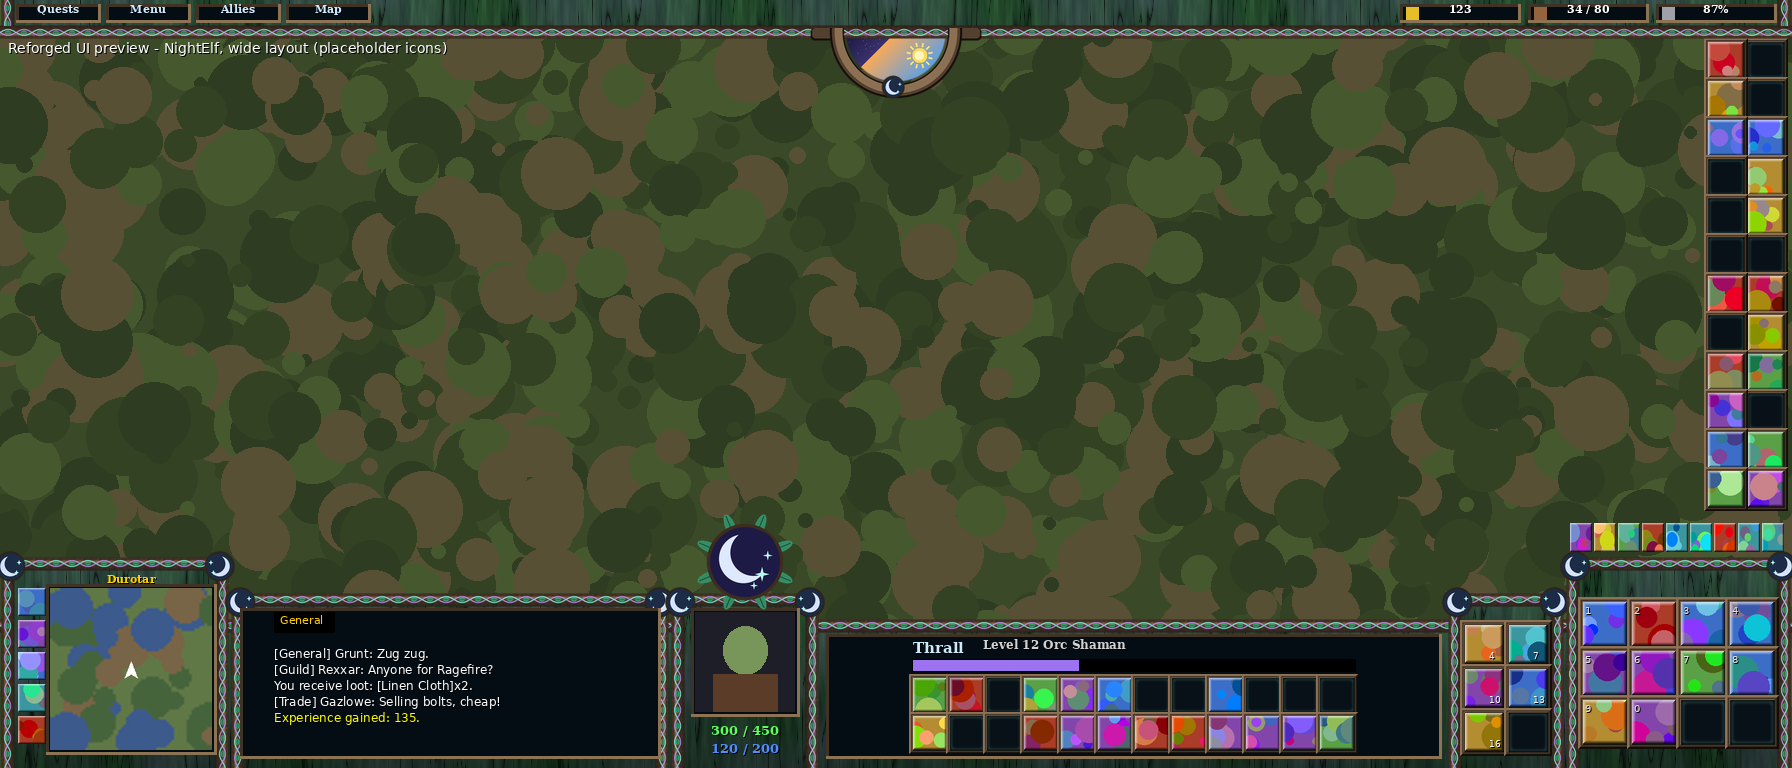
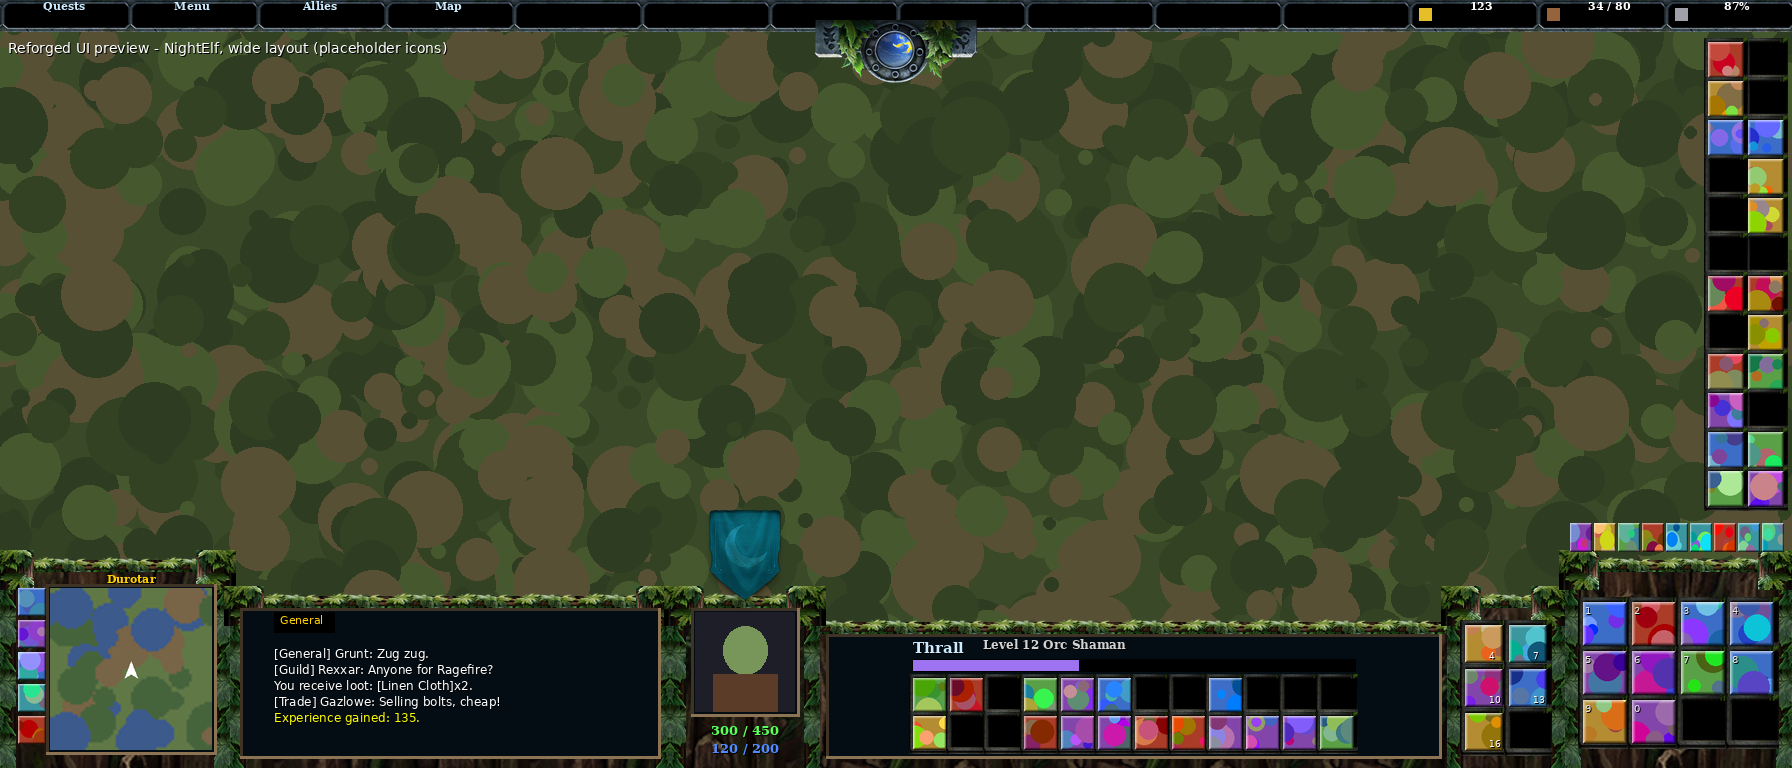
Draw the top bar with the Reforged top bar art
Buttons and resources sit in the dark windows of the faction's topbar
slots, aligned to the core edges and meeting under the clock. Slots that
would run under the clock on narrow screens are left out. The texture
generator no longer overwrites existing (extracted) art without --force,
and the previews are re-rendered with the extracted art.

diff --git a/tools/render_preview.py b/tools/render_preview.py
@@ -72,7 +72,7 @@ class Canvas:
             tex = tex.resize((max(1, int(round(pw))), max(1, int(round(ph)))), Image.LANCZOS)
         x0, y0, x1, y1 = self.box(x, y, w, h)
         region = Image.new("RGBA", (x1 - x0, y1 - y0))
-        sx = -int(ox) % tex.width
+        sx = int(round(ox)) % tex.width
         for tx in range(-sx, region.width, tex.width):
             for ty in range(0, region.height, tex.height):
                 region.alpha_composite(tex, (max(tx, 0), ty), (max(-tx, 0), 0))
@@ -116,15 +116,6 @@ def panel(c, faction, r, corners):
         c.paste(corner.transpose(Image.FLIP_LEFT_RIGHT), r["x"] + r["w"] - 34, r["y"] + r["h"] - 34, 40, 40)
 
 
-def hanging_panel(c, faction, r):
-    fill, edge, edgev, corner = (load(faction, n) for n in ("panel", "edge", "edgev", "corner"))
-    c.tile(fill, r["x"] + 4, r["y"] + 4, r["w"] - 8, r["h"] - 4, ox=r["x"] + 4)
-    c.tile(edge.transpose(Image.FLIP_TOP_BOTTOM), r["x"], r["y"], r["w"], 16, 64, 16)
-    flipv = edgev.transpose(Image.FLIP_TOP_BOTTOM)
-    c.tile(flipv, r["x"], r["y"] + 14, 16, r["h"] - 14, 16, 64)
-    c.tile(flipv.transpose(Image.FLIP_LEFT_RIGHT), r["x"] + r["w"] - 16, r["y"] + 14, 16, r["h"] - 14, 16, 64)
-
-
 def top_bar(c, faction, theme, L, hour):
     cl = L["clock"]
     dial = Image.open(os.path.join(MEDIA, "Common", "dial.tga")).convert("RGBA")
@@ -133,17 +124,23 @@ def top_bar(c, faction, theme, L, hour):
     dial = dial.rotate(math.degrees((hour - 12) / 24 * 2 * math.pi), resample=Image.BICUBIC)
     r = cl["radius"]
     c.paste(dial, cl["cx"] - r, cl["cy"] - r, 2 * r, 2 * r)
-    hanging_panel(c, faction, L["topBar"])
+    bar = load(faction, "topbar")
+    r = L["topBar"]
+    slot = L["topSlot"]
+    mid = cl["cx"]
+    # left run aligned to the core's left edge, right run to its right edge
+    c.tile(bar, r["x"], r["y"], mid - r["x"], r["h"], slot, r["h"], ox=r["x"] - L["topSlotsLeft"])
+    c.tile(bar, mid, r["y"], r["x"] + r["w"] - mid, r["h"], slot, r["h"], ox=mid - L["topSlotsRight"])
     cf = L["clockFrame"]
     c.paste(load(faction, "clockframe"), cf["x"], cf["y"], cf["w"], cf["h"])
     for b, label in zip(L["topButtons"], ["Quests", "Menu", "Allies", "Map"]):
-        inset(c, theme, b)
-        c.text(b["x"], b["y"] + 2, b["w"], b["h"], label, 11, theme["title"])
-    for b, label in zip(L["resources"], ["123", "34 / 80", "87%"]):
-        inset(c, theme, b)
-        c.text(b["x"] + 6, b["y"] + 2, b["w"] - 12, b["h"], label, 11, (255, 255, 255))
-        c.rect(b["x"] + 6, b["y"] + 3, 12, 12, fill=[(230, 190, 40, 255), (150, 100, 60, 255), (160, 160, 170, 255)][
-            L["resources"].index(b)])
+        if b:
+            c.text(b["x"], b["y"] + 4, b["w"], b["h"], label, 11, theme["title"])
+    colours = [(230, 190, 40, 255), (150, 100, 60, 255), (160, 160, 170, 255)]
+    for b, label, colour in zip(L["resources"], ["123", "34 / 80", "87%"], colours):
+        if b:
+            c.text(b["x"] + 24, b["y"] + 4, b["w"] - 30, b["h"], label, 11, (255, 255, 255))
+            c.rect(b["x"] + 6, b["y"] + 5, 12, 12, fill=colour)
 
 
 def inset(c, theme, r):

diff --git a/tools/gen_textures.py b/tools/gen_textures.py
@@ -6,7 +6,8 @@ faction folder gets the same set of files, so extracted or hand-made art can be
 dropped in later under the same names (.tga or .blp; the addon references them
 without an extension).
 
-    python3 tools/gen_textures.py            # writes ReforgedUI/Media/...
+    python3 tools/gen_textures.py            # fills in missing ReforgedUI/Media files
+    python3 tools/gen_textures.py --force    # overwrites them all, extracted art included
 
 Files per faction (all power-of-two, 32-bit TGA):
     panel.tga   256x256  tileable fill for console panels
@@ -66,10 +67,17 @@ def colorize(t, dark, light):
     return dark[None, None, :] * (1 - t[..., None]) + light[None, None, :] * t[..., None]
 
 
+FORCE = "--force" in sys.argv
+
+
 def save(img, faction, name):
     folder = os.path.join(ROOT, faction)
     os.makedirs(folder, exist_ok=True)
-    img.save(os.path.join(folder, name), format="TGA")
+    path = os.path.join(folder, name)
+    if os.path.exists(path) and not FORCE:
+        print("skipping", os.path.relpath(path, ROOT), "(exists; use --force to overwrite)", file=sys.stderr)
+        return
+    img.save(path, format="TGA")
 
 
 def canvas(w, h):
@@ -558,9 +566,8 @@ def main():
         save(well(*spec["well"]), name, "well.tga")
         save(spec["crest"](), name, "crest.tga")
         save(clockframe(name, *CLOCK_METAL[name]), name, "clockframe.tga")
-    os.makedirs(os.path.join(ROOT, "Common"), exist_ok=True)
-    bevel().save(os.path.join(ROOT, "Common", "bevel.tga"), format="TGA")
-    dial().save(os.path.join(ROOT, "Common", "dial.tga"), format="TGA")
+    save(bevel(), "Common", "bevel.tga")
+    save(dial(), "Common", "dial.tga")
     print("textures written to", os.path.normpath(ROOT), file=sys.stderr)
 
 

diff --git a/ReforgedUI/Media/README.md b/ReforgedUI/Media/README.md
@@ -13,12 +13,11 @@ name replaces the generated art. Sizes must stay powers of two.
 | `well` | 64x64 | Socket behind each action, inventory and bag slot |
 | `crest` | 256x256 | Faction emblem above the portrait |
 | `clockframe` | 256x128 | Frame around the day/night clock under the top bar; the dial's centre is the top-middle of the texture (4 units down at 176x88) |
+| `topbar` | 256x64 | One slot of the top resource bar, post to post; tiles horizontally, shown 32 units tall (a slot every 128). Buttons and resources sit in the dark window |
 
 `Common/bevel` (64x64) is drawn over every button icon. `Common/dial` (256x256)
 is the day/night disc: sun at the bottom, moon at the top. It turns with the
 server time and only its lower half shows below the top bar.
-
-| `topbar` | 256x64 | One slot of the WC3 top resource bar, post to post; tiles horizontally (not used by the code yet) |
 
 The faction files and `Common/dial` are cropped from Warcraft III: Reforged's HD
 console art (`_hd.w3mod/ui/console/<race>/<race>uitile0N`, `-timeindicatorframe`,
@@ -28,5 +27,5 @@ private. The dial is built from the scrolling sky strip with its sun and moon
 centred 0.52 × radius from the middle, which matches the clock window at
 `dialR = 52`, `clockW/H = 176x88`. `Common/bevel` is still procedural.
 
-`tools/gen_textures.py` makes the original procedural art. Running it overwrites
-every file here, including the extracted art.
+`tools/gen_textures.py` makes the original procedural art (it has no `topbar`).
+It refuses to overwrite existing files unless run with `--force`.
